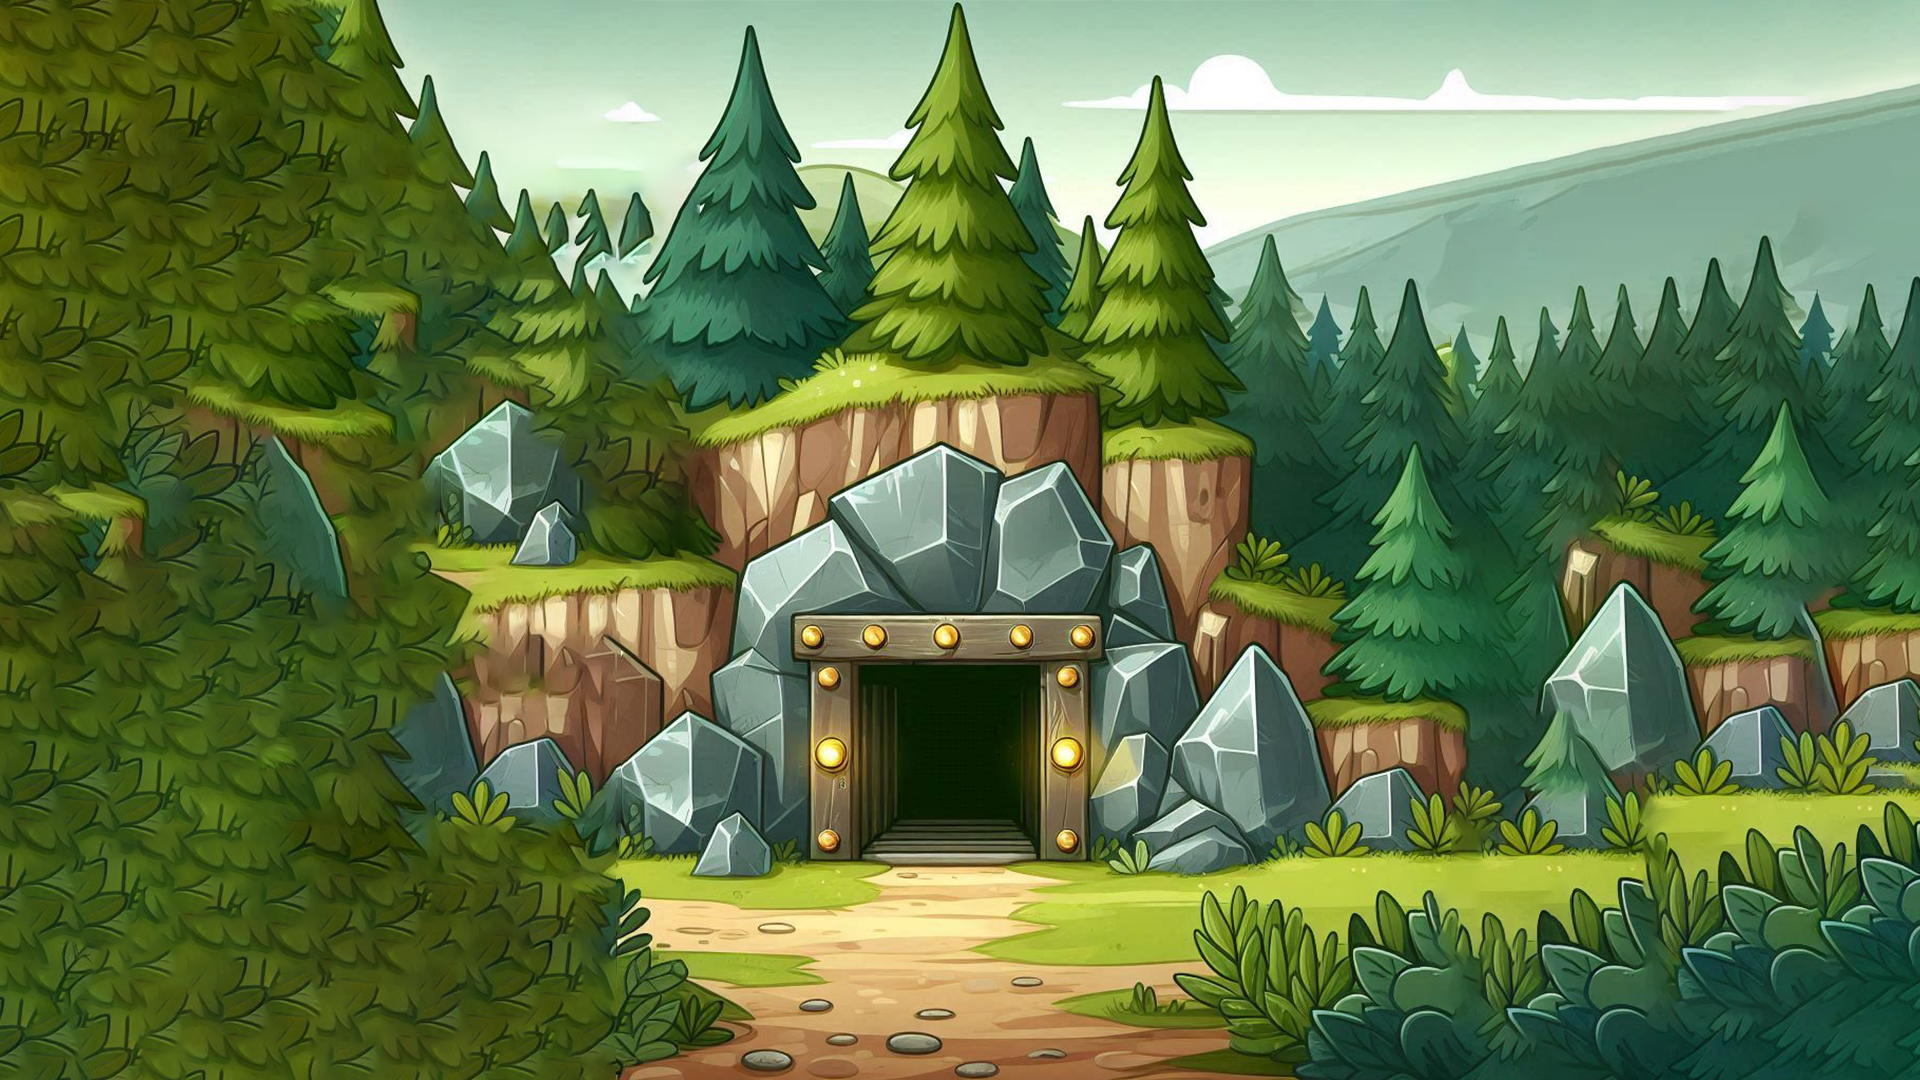
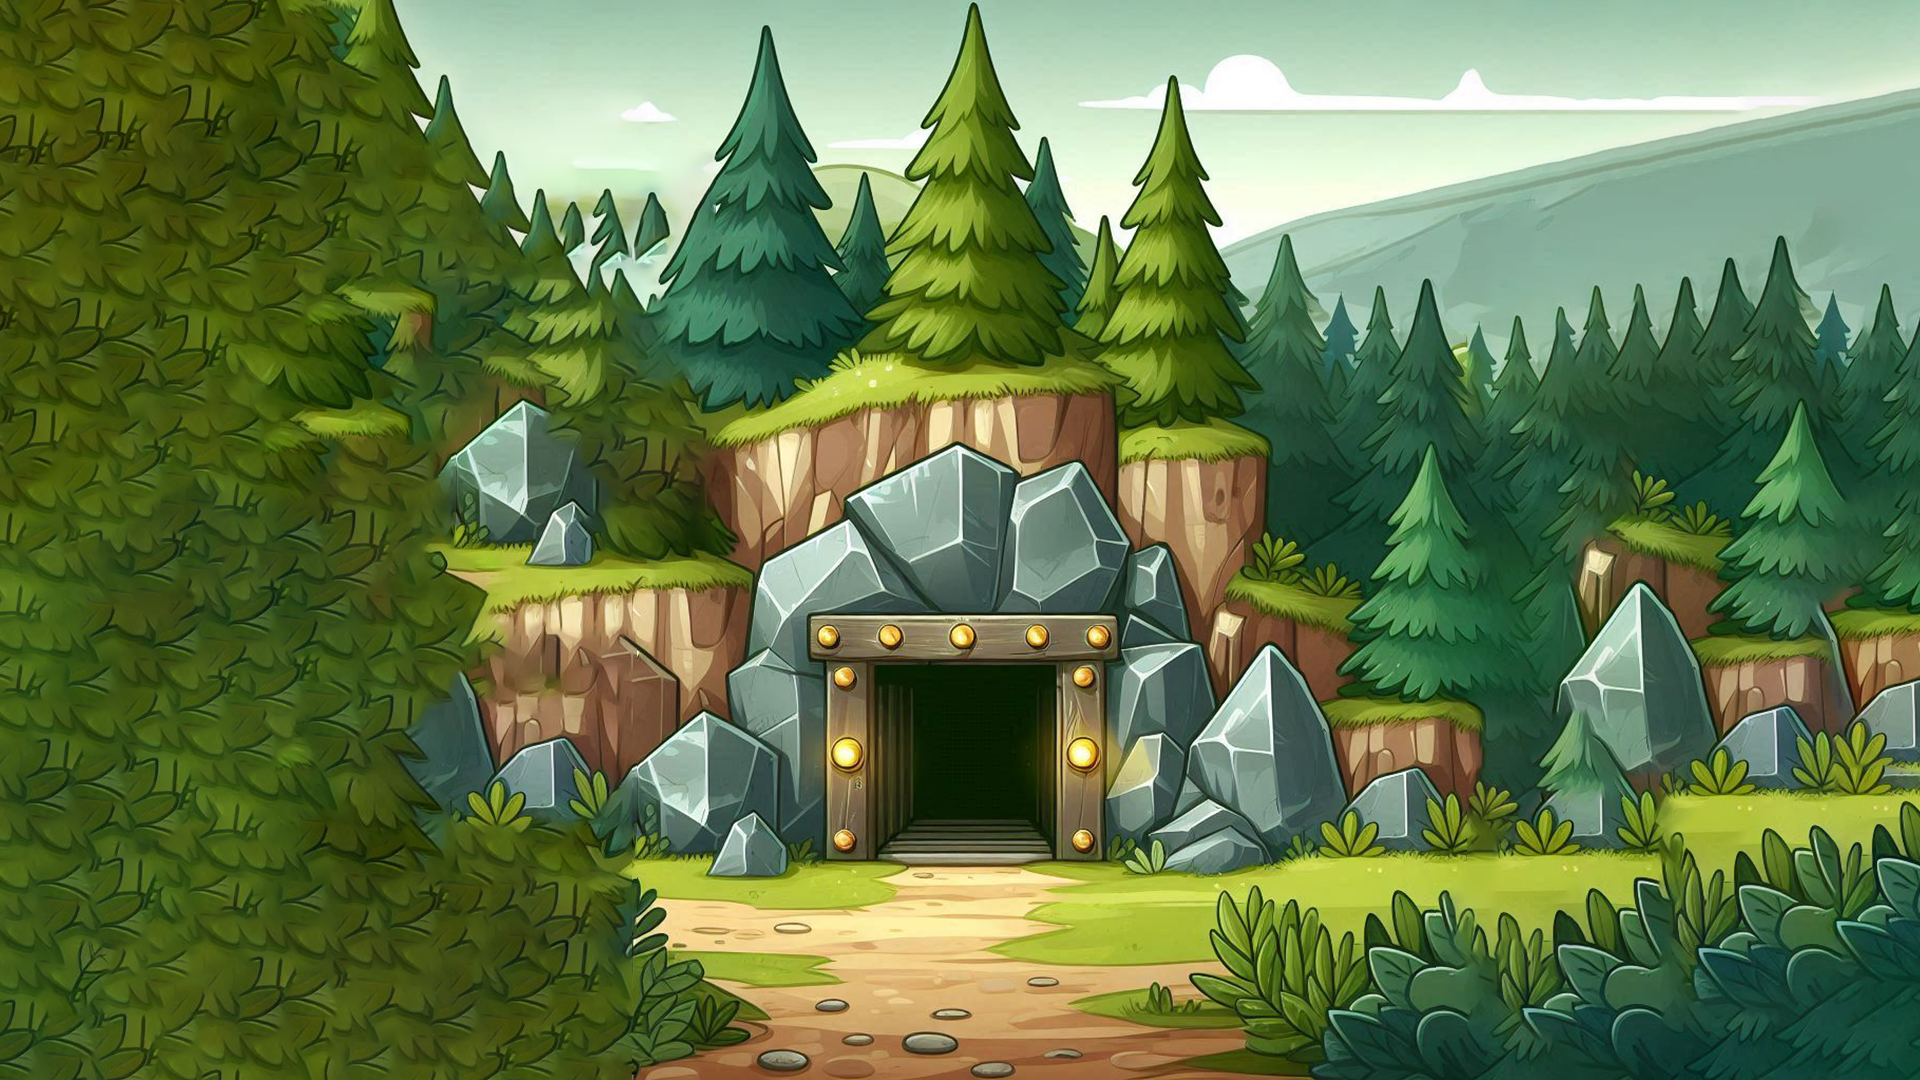
Absolutechance calc done farmstone random logic in progress UI improvement

diff --git a/src/store/index.js b/src/store/index.js
@@ -1,9 +1,10 @@
 import { createStore } from 'vuex';
 import { toRaw } from 'vue';
+
 import baseData from "../content/workers.json";
 
 const MAX_LEVEL_CAP = 20;
-const UPGRADE_WAVE_SHIFT = -48;
+const UPGRADE_WAVE_SHIFT = -45;
 
 export default createStore({
     state: {
@@ -42,18 +43,31 @@ export default createStore({
                 stone.chance = tier / MAX_LEVEL_CAP;
             }
         },
-        setAbsoluteChance(state) {
-            state.stones.slice().reverse().forEach((stone, index, array) => {
-                if (index === 0) {
-                    stone.absoluteChance = stone.chance
-                } else {
-                    let product = array.slice().reverse().slice(0, index).reduce((acc, val) => acc.chance * (1 - val.chance), 1);
-                    console.log("product", product)
-                    stone.absoluteChance = stone.chance * product;
-                }
-                console.log("chance", stone.chance, "absChance", stone.absoluteChance)
-            });
+        setAbsoluteChance(state, stoneId) {
+            const stoneList = state.stones;
+            const stone = stoneList[stoneId];
+            if (stoneId == stoneList.length) {
+                stone.absoluteChance = stone.chance;
+                return;
 
+            }
+            if (stoneId == 0) {
+                let result = 0;
+                for (let i = 1; i < stoneList.length; i++) {
+                    result += stoneList[i].absoluteChance;
+
+                }
+                stone.absoluteChance = 1 - result;
+                return
+            }
+            let product = 1;
+            for (let i = stoneId + 1; i < stoneList.length; i++) {
+                product *= (1 - stoneList[i].chance);
+
+            }
+
+            stone.absoluteChance = stone.chance * product;
+            state.stones = [...stoneList];
         },
         setChanceType(state) {
             const chanceType = state.chanceType;
@@ -129,9 +143,6 @@ export default createStore({
                 const gameStatus = JSON.parse(jsonString);
                 commit('setCoins', gameStatus.coins);
                 commit('setStones', gameStatus.stones);
-                /* state.stones.forEach((stone) => {
-                    dispatch('setProgressLevel', stone.id);
-                }); */
             } else {
                 console.error('No saved game found.');
             }
@@ -151,9 +162,9 @@ export default createStore({
                 commit('incrementStoneLevel', stoneId);
                 commit('setTier', { stoneId });
                 commit('setChance', { stoneId });
-                commit('setAbsoluteChance', { stoneId });
                 commit('incrementUpgradePrice', { stoneId });
                 commit('incrementStoneValue', { stoneId });
+                dispatch('calcAbsoluteChance');
                 dispatch('setProgressLevel', { stoneId, upgraded: true });
             }
         },
@@ -179,30 +190,28 @@ export default createStore({
                     setTimeout(() => {
                         commit('setProgress', { stoneId, progress: 0 });
                         commit('setIsProgressing', { stoneId, isProgressing: false });
+                        const nextInactiveStone = state.stones.find(w => !w.active);
+                        if (nextInactiveStone && state.coins >= nextInactiveStone.upgradePrice) {
+                            commit('activateStone', nextInactiveStone.id);
+                        }
                     }, 100);
                 } else {
                     commit('setProgress', { stoneId, progress: currentProgress });
                 }
             }, intervalDuration);
-
             commit('setIntervalId', { stoneId, intervalId });
-
-
-            const nextInactiveStone = state.stones.find(w => !w.active);
-            if (nextInactiveStone && state.coins >= nextInactiveStone.upgradePrice) {
-                commit('activateStone', nextInactiveStone.id);
-            }
         },
 
-        farmStone({ commit, state, dispatch }) {
+        farmStone({ commit, state, dispatch }, stoneId) {
+            console.log(stoneId)
             commit('incrementCoins', state.basicFarm);
-            commit('incrementStoneAmount', 0);
+            commit('incrementStoneAmount', stoneId);
             dispatch('saveGame');
-            console.log(state)
+
         },
-        setProgressLevel({ state }, { stoneId, upgraded = false }) {
-            console.log(upgraded)
+        setProgressLevel({ state, getters }, { stoneId, upgraded = false }) {
             const stone = state.stones.find(stone => stone.id === stoneId);
+
             if (!stone) return;
 
             const progressContainer = document.getElementById(`progress-container-${stoneId}`);
@@ -213,11 +222,12 @@ export default createStore({
 
             const level = stone.level;
             const maxLevel = stone.levelCap;
-            let percentage = level % maxLevel == 0 && upgraded ? UPGRADE_WAVE_SHIFT : level % maxLevel / maxLevel * UPGRADE_WAVE_SHIFT
-
+            let percentage = level % maxLevel / maxLevel * UPGRADE_WAVE_SHIFT
+            if (level % maxLevel == 0 && upgraded || !getters.isUpgradeAvailable(stoneId)) {
+                percentage = UPGRADE_WAVE_SHIFT
+            }
             progressWave.style.transform = `translateY(${percentage}%)`;
-
-            if (percentage === UPGRADE_WAVE_SHIFT) {
+            if (percentage === UPGRADE_WAVE_SHIFT && getters.isUpgradeAvailable(stoneId)) {
                 setTimeout(function() {
                     progressWave.style.transform = `translateY(0)`;
                     progressContainer.classList.add("upgraded");
@@ -227,7 +237,13 @@ export default createStore({
                 }, 200);
             }
         },
-
+        calcAbsoluteChance({ commit, state }) {
+            const stoneList = state.stones
+            for (let i = stoneList.length - 1; i >= 0; i--) {
+                commit('setAbsoluteChance', stoneList[i].id);
+            }
+            state.stones = [...stoneList];
+        },
         changeChanceType({ commit }) {
             commit('setChanceType');
         },
@@ -276,6 +292,19 @@ export default createStore({
                     break;
             }
         },
+        getRandomStone: (state) => {
+            const random = Math.random();
+            let cumulativeSum = 0;
+            console.log(state.stones.map(s => s.absoluteChance))
+            for (let i = 0; i < state.stones.length; i++) {
+                cumulativeSum += state.stones[i].absoluteChance;
+                if (random < cumulativeSum) {
+                    return i;
+                }
+            }
+            return 0;
+
+        },
         getActualUpgradePriceById: (state) => (stoneId) => {
             const stone = state.stones[stoneId];
             return stone ? stone.actualUpgradePrice : 0;
@@ -284,6 +313,10 @@ export default createStore({
             return state.stones.find(stone => stone.id === id);
         },
         tierMap: (state) => state.tierMap,
+        isUpgradeAvailable: (state) => (stoneId) => {
+            const stone = state.stones[stoneId];
+            return MAX_LEVEL_CAP > stone.tier;
+        }
     },
 
 });

diff --git a/src/App.vue b/src/App.vue
@@ -5,13 +5,18 @@
     <div class="d-flex row">
       <div class="store col-12">
         <template v-for="(stone, i) in stones" :key="stone.id">
-          <StoneItem v-if="isActive(stone.id)" :stoneId="stone.id" :stoneImg="stoneImages[i]"> </StoneItem>
+          <StoneItem
+            v-if="isActive(stone.id)"
+            :stoneId="stone.id"
+            :stoneImg="stoneImages[i]"
+          >
+          </StoneItem>
         </template>
         <button @click="changeChanceType">Change percent type</button>
       </div>
-      <FarmStone class="col-12"></FarmStone>
     </div>
   </section>
+  <FarmStone class="col-12"></FarmStone>
 </template>
 
 <script>
@@ -58,12 +63,11 @@ export default {
     this.loadGame();
   },
   methods: {
-    ...mapActions(["loadGame", "initializeStones","changeChanceType"]),
-    
-    isActive(stoneId){
-      console.log(stoneId)
+    ...mapActions(["loadGame", "initializeStones", "changeChanceType"]),
+
+    isActive(stoneId) {
       return this.getStoneActiveById(stoneId);
-    }
+    },
   },
 };
 </script>
@@ -76,6 +80,18 @@ export default {
   margin: 0 10px;
 }
 
+@media only screen and (max-width: 850px) {
+  .store {
+    height: 550px;
+    overflow-y: scroll;
+  }
+}
+@media only screen and (max-width: 750px) {
+  .store {
+    height: 450px;
+    overflow-y: scroll;
+  }
+}
 @media only screen and (max-width: 600px) {
   .store {
     height: 350px;

diff --git a/src/components/FarmStone.vue b/src/components/FarmStone.vue
@@ -1,30 +1,37 @@
 <template>
-  <div class="button-container d-flex justify-content-center align-items-center">
+  <div id="farmButton_container" class="button-container d-flex justify-content-center align-items-center">
     <div class="farmButton" @click="earnStone"></div>
   </div>
 </template>
 
 <script>
-import { mapActions } from "vuex";
+import { mapActions, mapGetters } from "vuex";
 export default {
   name: "FarmStone",
   methods: {
     ...mapActions(["farmStone"]),
     earnStone() {
-      this.farmStone();
+      const sun = this.getRandomStone;
+      this.farmStone(sun);
     },
   },
+  computed: {
+    ...mapGetters(["getRandomStone"])
+  }
 };
 </script>
 
 <style scoped>
-.button-container {
-  height: 20vh;
+#farmButton_container {
+  position: absolute;
+  bottom: 90px;
 }
 
 .farmButton {
   background-image: url("/src/assets/images/buttons/earn.png");
-  width: 70px;
+  width: 30%;
+  min-width: 150px;
+  max-width: 190px;
   aspect-ratio: 1;
   background-size: contain;
   background-repeat: no-repeat;

diff --git a/src/components/StoneComponents/StoneLevel.vue b/src/components/StoneComponents/StoneLevel.vue
@@ -2,7 +2,9 @@
   <div :id="'progress-container-' + stoneId" class="progress-container">
     <div class="progress-wave" :style="background"></div>
     <div class="item-level">
-      <span>{{ (getChanceById(stoneId) * 100).toFixed() }}%</span>
+      <span :style="!isUpgradeAvailable(stoneId) ? { color: 'white' } : {}">{{
+        calculatedChance
+      }}</span>
     </div>
   </div>
 </template>
@@ -27,13 +29,20 @@ export default {
     };
   },
   computed: {
-    ...mapGetters(["getChanceById", "getTierById"]),
+    ...mapGetters(["getChanceById", "isUpgradeAvailable"]),
+    calculatedChance() {
+      if (this.isUpgradeAvailable(this.stoneId)) {
+        return (this.getChanceById(this.stoneId) * 100).toFixed() + "%";
+      } else {
+        return "MAX";
+      }
+    },
   },
 
   methods: {
     ...mapActions(["setProgressLevel"]),
   },
-  updated() {
+  mounted() {
     if (!this.isProgressSet) {
       this.setProgressLevel({ stoneId: this.stoneId });
       this.isProgressSet = true;

diff --git a/src/components/StoneComponents/StoneLevelUpgrade.vue b/src/components/StoneComponents/StoneLevelUpgrade.vue
@@ -1,7 +1,12 @@
 <template>
-  <div class="item-upgrade position-absolute" :disabled="cantPay" @click="upgrade">
+  <div
+    class="item-upgrade position-absolute"
+    :disabled="cantPay"
+    :hidden="!isUpgradeAvailable(this.stoneId)"
+    @click="upgrade"
+  >
     <!-- ↑ -->
-    {{ this.upgradePrice.toFixed(2) }}&nbsp;$
+    {{ this.upgradePrice }}&nbsp;$
   </div>
 </template>
 
@@ -16,9 +21,13 @@ export default {
     },
   },
   computed: {
-    ...mapGetters(["coins", "getActualUpgradePriceById"]),
+    ...mapGetters(["coins", "getActualUpgradePriceById", "isUpgradeAvailable"]),
     upgradePrice() {
-      return this.getActualUpgradePriceById(this.stoneId);
+      if (this.isUpgradeAvailable(this.stoneId)) {
+        return this.getActualUpgradePriceById(this.stoneId).toFixed(2);
+      } else {
+        return "MAX";
+      }
     },
     cantPay() {
       return this.coins < this.upgradePrice;

diff --git a/src/components/Background.vue b/src/components/Background.vue
@@ -33,8 +33,9 @@ body {
     left: 0;
     height: 100vh;
     width: 100vw;
-    background-image: url("/src/assets/images/background/bg.png");
+    background-image: url("/src/assets/images/background/bg_v1.png");
     background-size: cover;
+    background-position: center;
 }
 
 .background .water {
